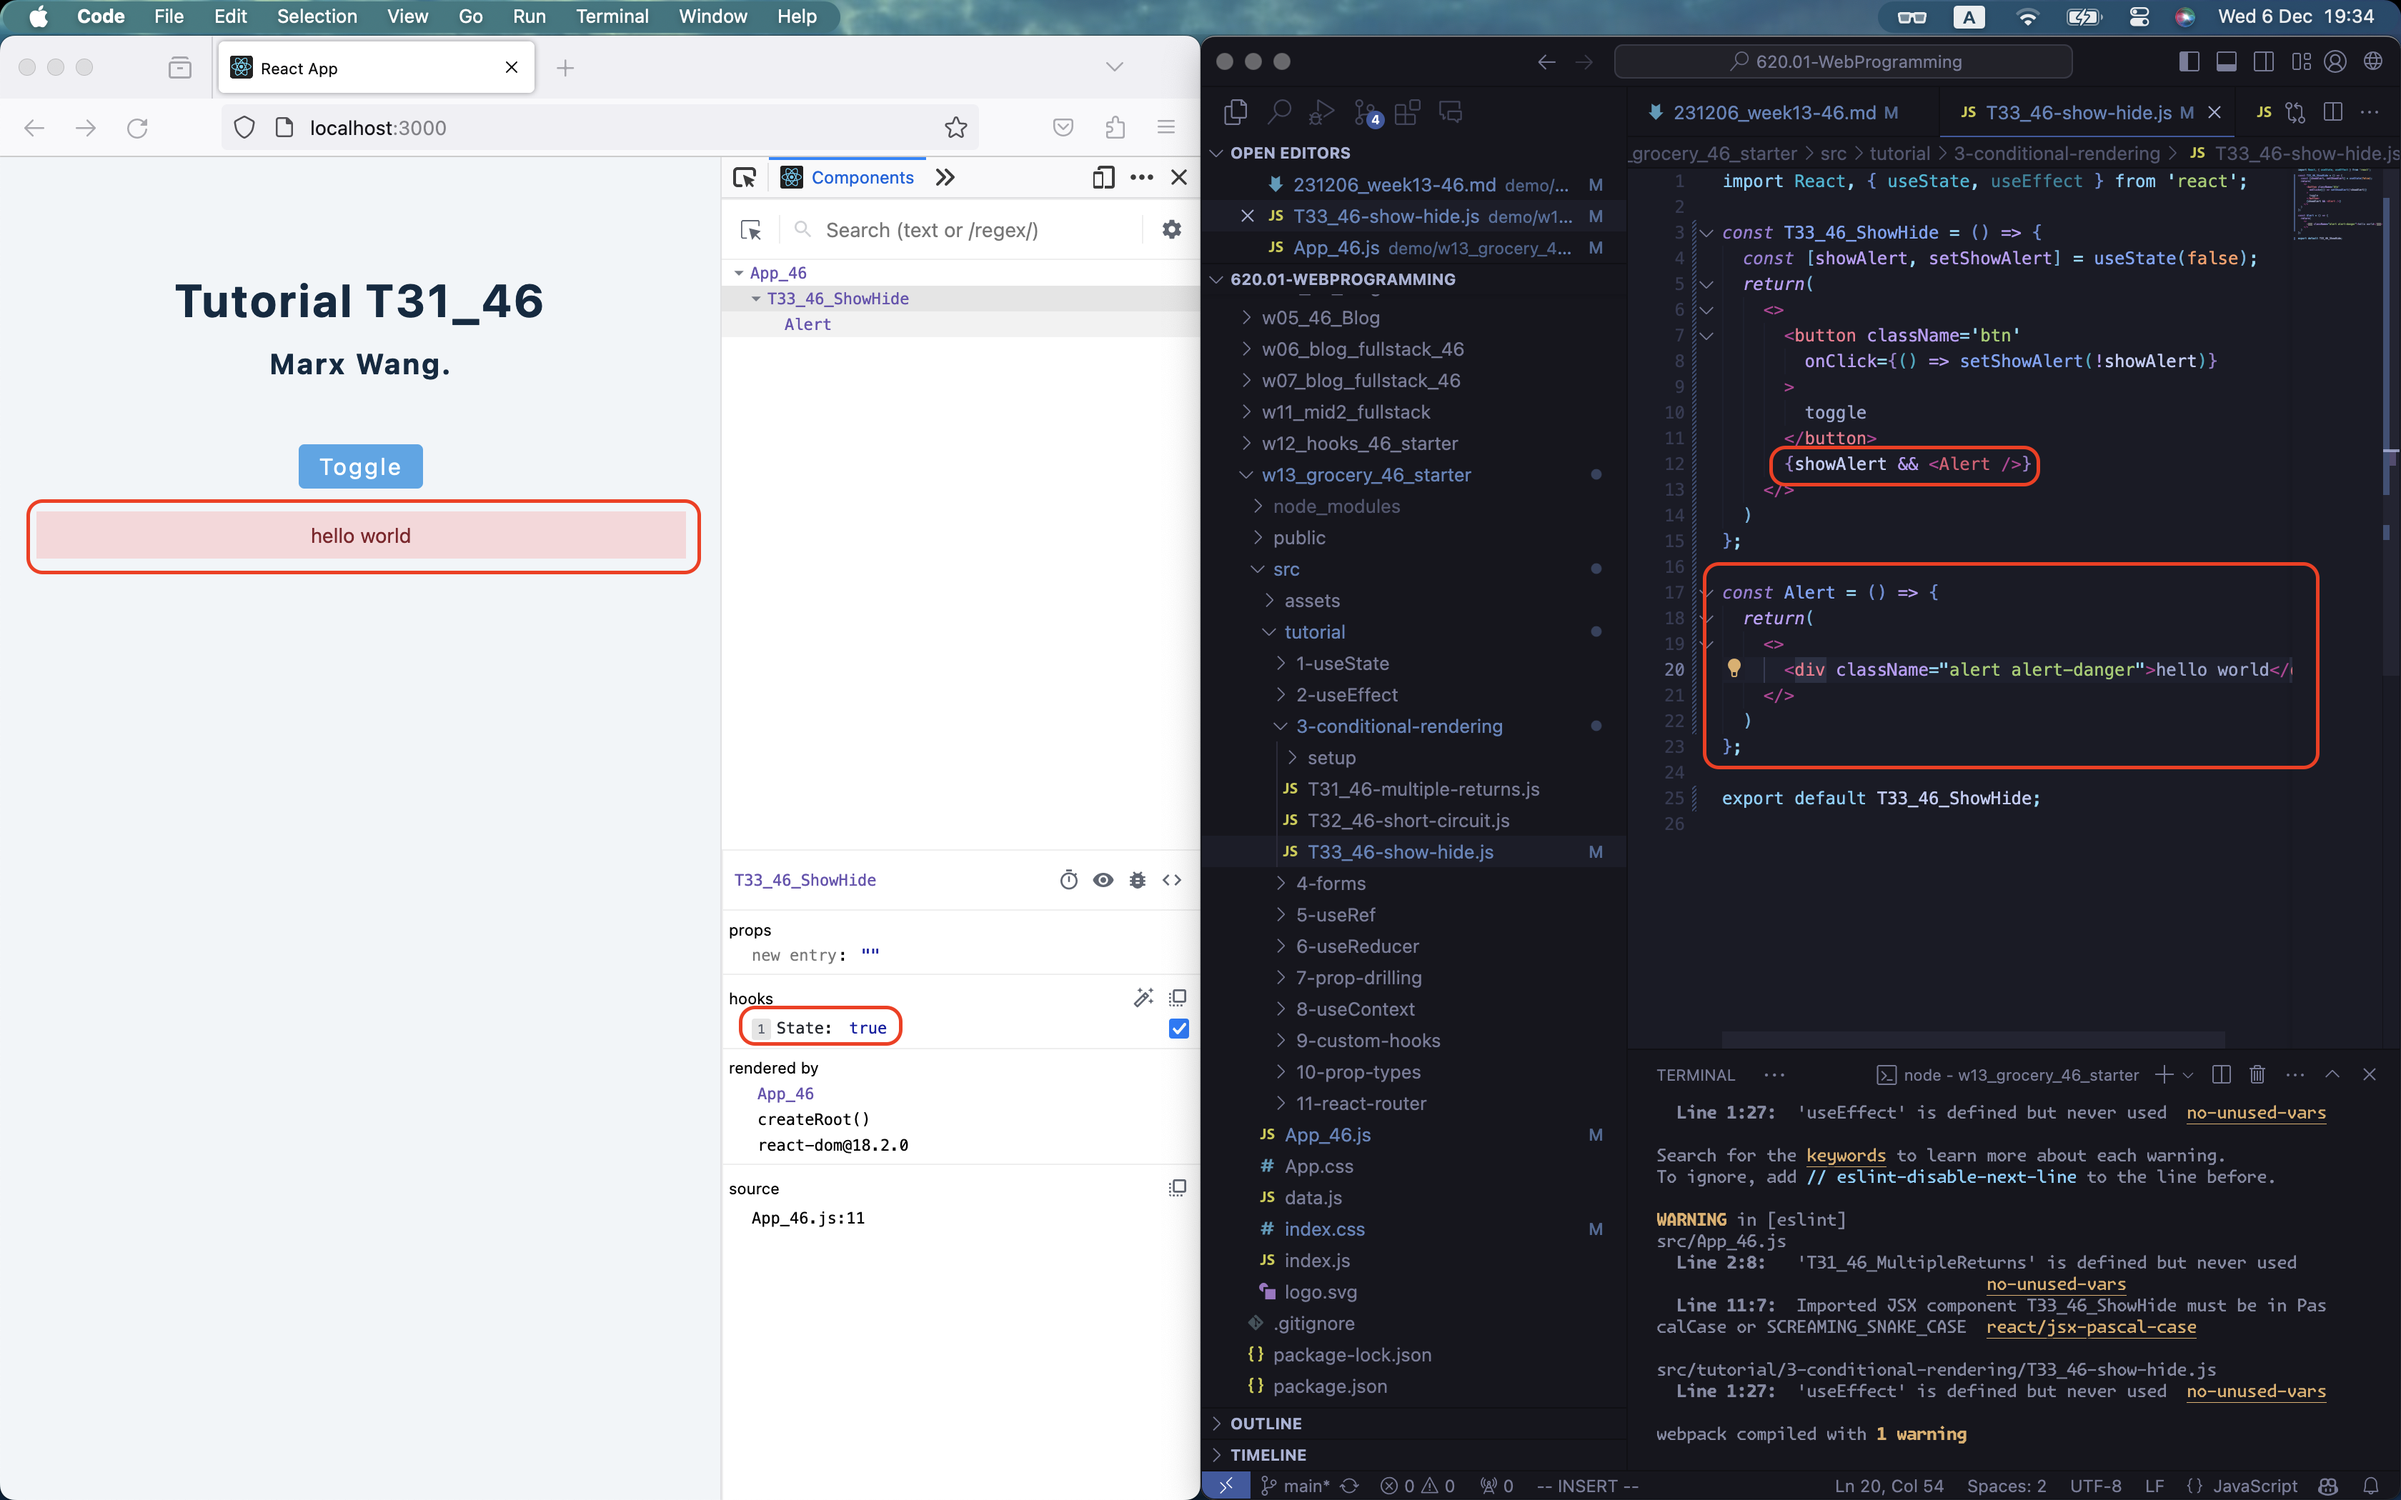
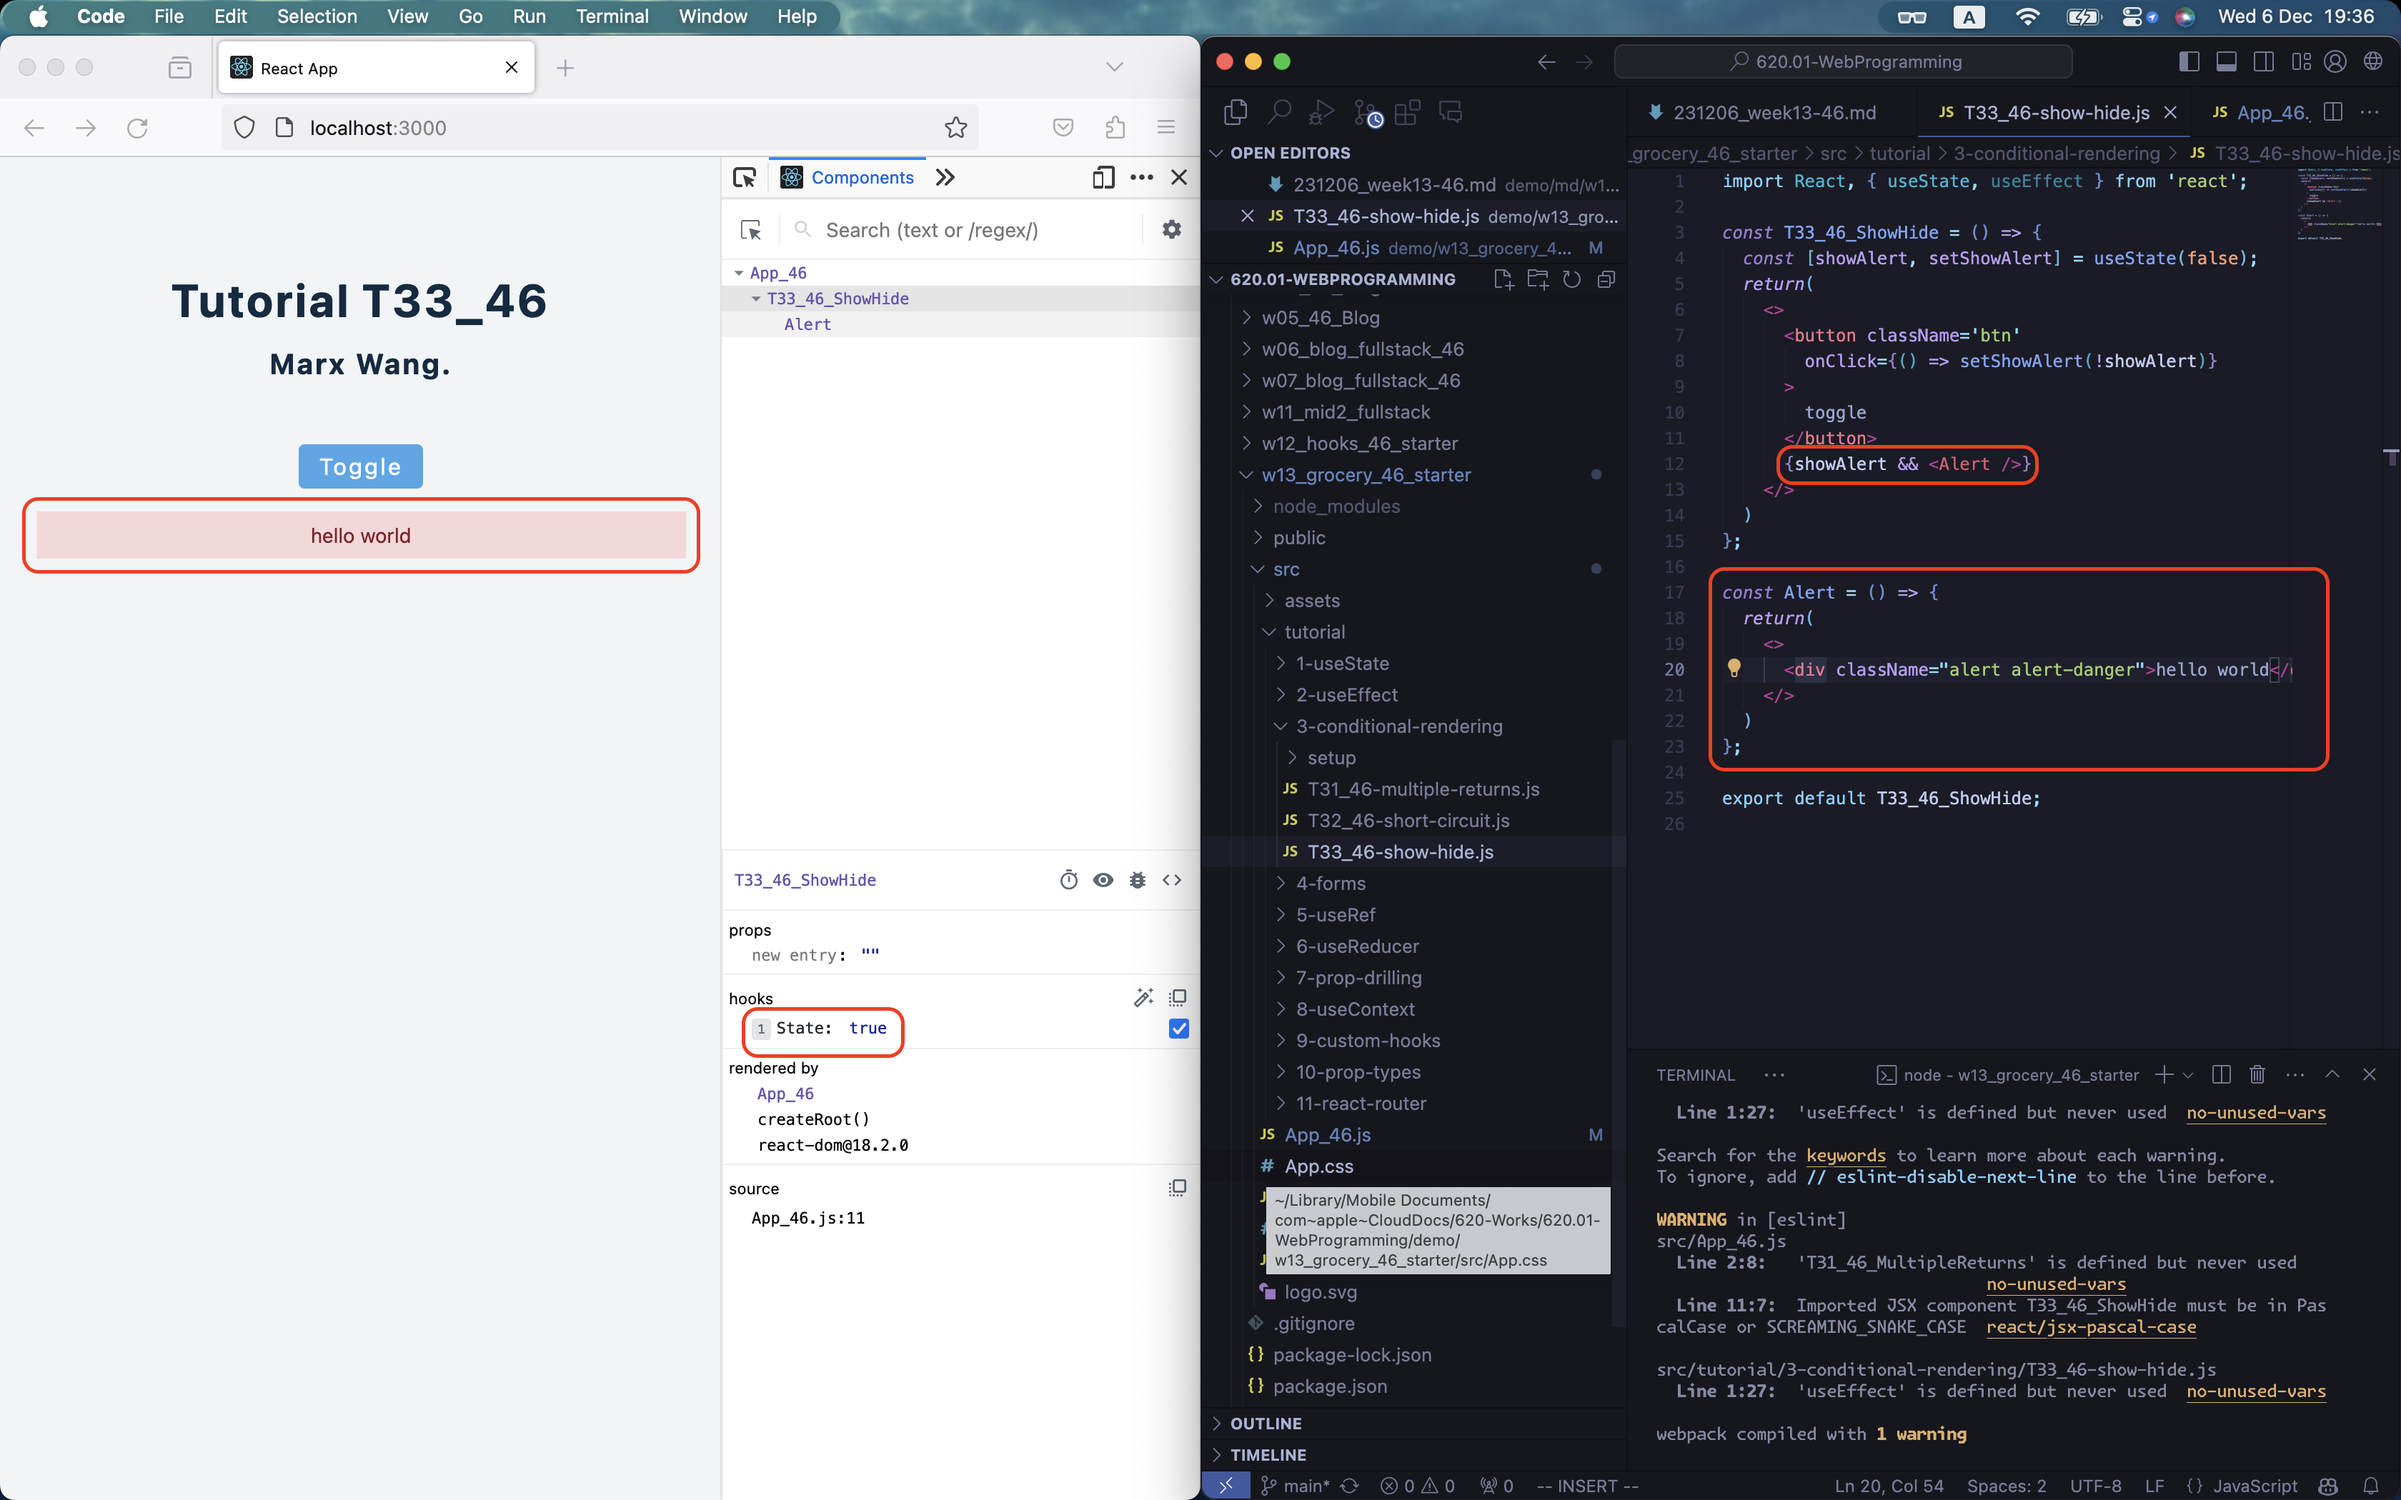
W13-P3: Do T41 using form by input name and email.

diff --git a/demo/w13_grocery_46_starter/src/tutorial/4-forms/T42_46-multiple-inputs.js b/demo/w13_grocery_46_starter/src/tutorial/4-forms/T42_46-multiple-inputs.js
@@ -1,0 +1,68 @@
+import React, { useState } from 'react';
+// JS
+// const input = document.getElementById('myText');
+// const inputValue = input.value
+// React
+// value, onChange
+// dynamic object keys
+
+const T42_46_ControlledInputs = () => {
+  const [firstName, setFirstName] = useState('');
+  const [email, setEmail] = useState('');
+  const [people, setPeople] = useState([]);
+
+  const handleSubmit = (e) => {
+    e.preventDefault();
+    if (firstName && email) {
+      const person = { id: new Date().getTime().toString(), firstName, email };
+      console.log(person);
+      setPeople((people) => {
+        return [...people, person];
+      });
+      setFirstName('');
+      setEmail('');
+    } else {
+      console.log('empty values');
+    }
+  };
+  return (
+    <>
+      <article>
+        <form className='form' onSubmit={handleSubmit}>
+          <div className='form-control'>
+            <label htmlFor='firstName'>Name : </label>
+            <input
+              type='text'
+              id='firstName'
+              name='firstName'
+              value={firstName}
+              onChange={(e) => setFirstName(e.target.value)}
+            />
+          </div>
+          <div className='form-control'>
+            <label htmlFor='email'>Email : </label>
+            <input
+              type='email'
+              id='email'
+              name='email'
+              value={email}
+              onChange={(e) => setEmail(e.target.value)}
+            />
+          </div>
+          <button type='submit'>add person</button>
+        </form>
+        {people.map((person, index) => {
+          const { id, firstName, email } = person;
+          return (
+            <div className='item' key={id}>
+              <h4>{firstName}</h4>
+              <p>{email}</p>
+            </div>
+          );
+        })}
+      </article>
+    </>
+  );
+};
+
+export default T42_46_ControlledInputs;

diff --git a/demo/w13_grocery_46_starter/src/tutorial/4-forms/T41_46-controlled-inputs.js b/demo/w13_grocery_46_starter/src/tutorial/4-forms/T41_46-controlled-inputs.js
@@ -1,0 +1,70 @@
+import React, { useState } from 'react';
+// JS
+// const input = document.getElementById('myText');
+// const inputValue = input.value
+
+// React
+// value, onChange
+
+const T41_46_ControlledInputs = () => {
+  const [name, setName] = useState('');
+  const [email, setEmail] = useState('');
+  const [people, setPeople] = useState([]);
+
+  const handleSummit = async (e) => {
+    e.preventDefault();
+    if (name && email) {
+      const person = { 
+        id: new Date().getTime().toString(), 
+        name, 
+        email 
+      };
+      setPeople((people) => {
+        return [...people, person];
+      });
+    } else {
+      console.log('empty values');
+    }
+    setEmail('');
+    setName('');
+    console.log(people);
+  };
+  return (
+    <>
+      <article>
+        <form 
+          className="form"
+          onSubmit={handleSummit}
+        > 
+          <div className="form-control">
+            <label htmlFor="name">Name: </label>
+            <input 
+              type="text" 
+              name='name' 
+              value={name}
+              onChange={(e)=> setName(e.target.value)}/>
+          </div>
+          <div className="form-control">
+            <label htmlFor="email">Email:</label>
+            <input type="text" name='email' value={email} onChange={(e) => setEmail(e.target.value)}/>
+          </div>
+          <button type="submit">Add Person</button>
+        </form>
+        {
+          people.map((person, index) => {
+            const {id, name, email} = person;
+            return (
+              <div key={id} className="item">
+                <h4>{name}</h4>
+                <p>{email}</p>
+              </div>
+            )
+          })
+        }
+      </article>
+    </>
+  )
+};
+
+
+export default T41_46_ControlledInputs;

diff --git a/demo/w13_grocery_46_starter/src/App_46.js b/demo/w13_grocery_46_starter/src/App_46.js
@@ -1,14 +1,16 @@
 import React from 'react';
 import T31_46_MultipleReturns from './tutorial/3-conditional-rendering/T31_46-multiple-returns';
 import T33_46_ShowHide from './tutorial/3-conditional-rendering/T33_46-show-hide';
+import T41_46_ControlledInputs from './tutorial/4-forms/T41_46-controlled-inputs';
 
 const App_46 = () => {
   return (
     <div className='container'>
-      <h2>Tutorial T31_46</h2>
+      <h2>Tutorial T33_46</h2>
       <h3>Marx Wang.</h3>
       {/* <T31_46_MultipleReturns /> */}
-      <T33_46_ShowHide />
+      {/* <T33_46_ShowHide /> */}
+      <T41_46_ControlledInputs />
     </div>
   );
 };

diff --git a/demo/md/w13_46/231206_week13-46.md b/demo/md/w13_46/231206_week13-46.md
@@ -8,6 +8,10 @@
 ### W13-P2: Do T33 toggle Alert message.
 ![](./w13-p2.png)
 
+### W13-P3: Do T41 using form by input name and email.
+
+![](w13-p3.png)
+
 ```
 git log --pretty=format:"%h%x09%an%x09%ad%x09%s" --after="2023-12-05"
 ```
